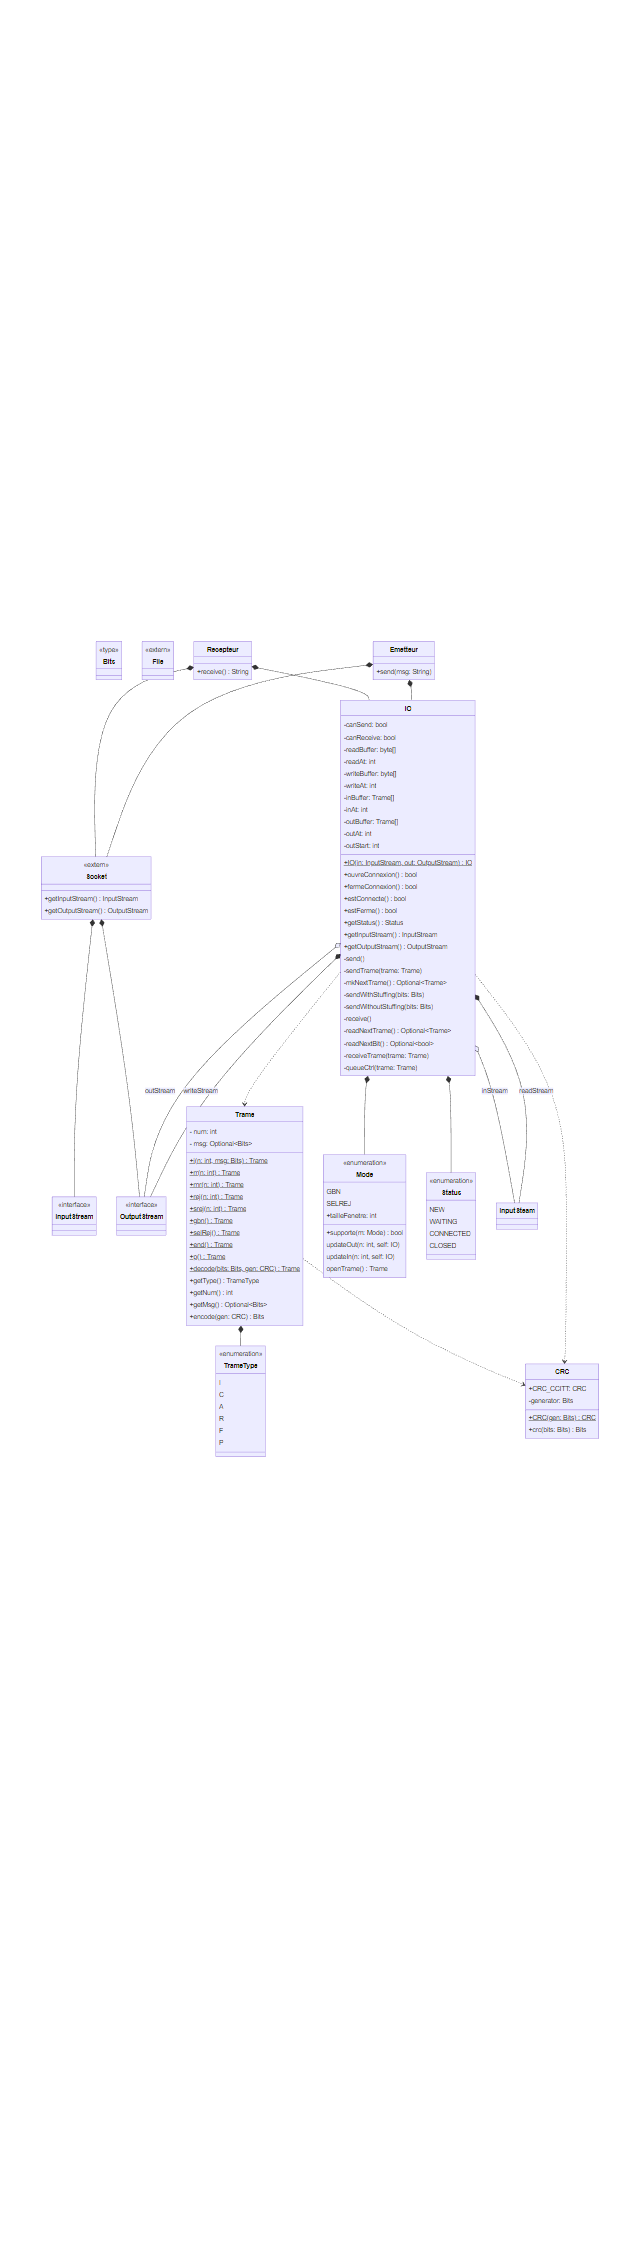
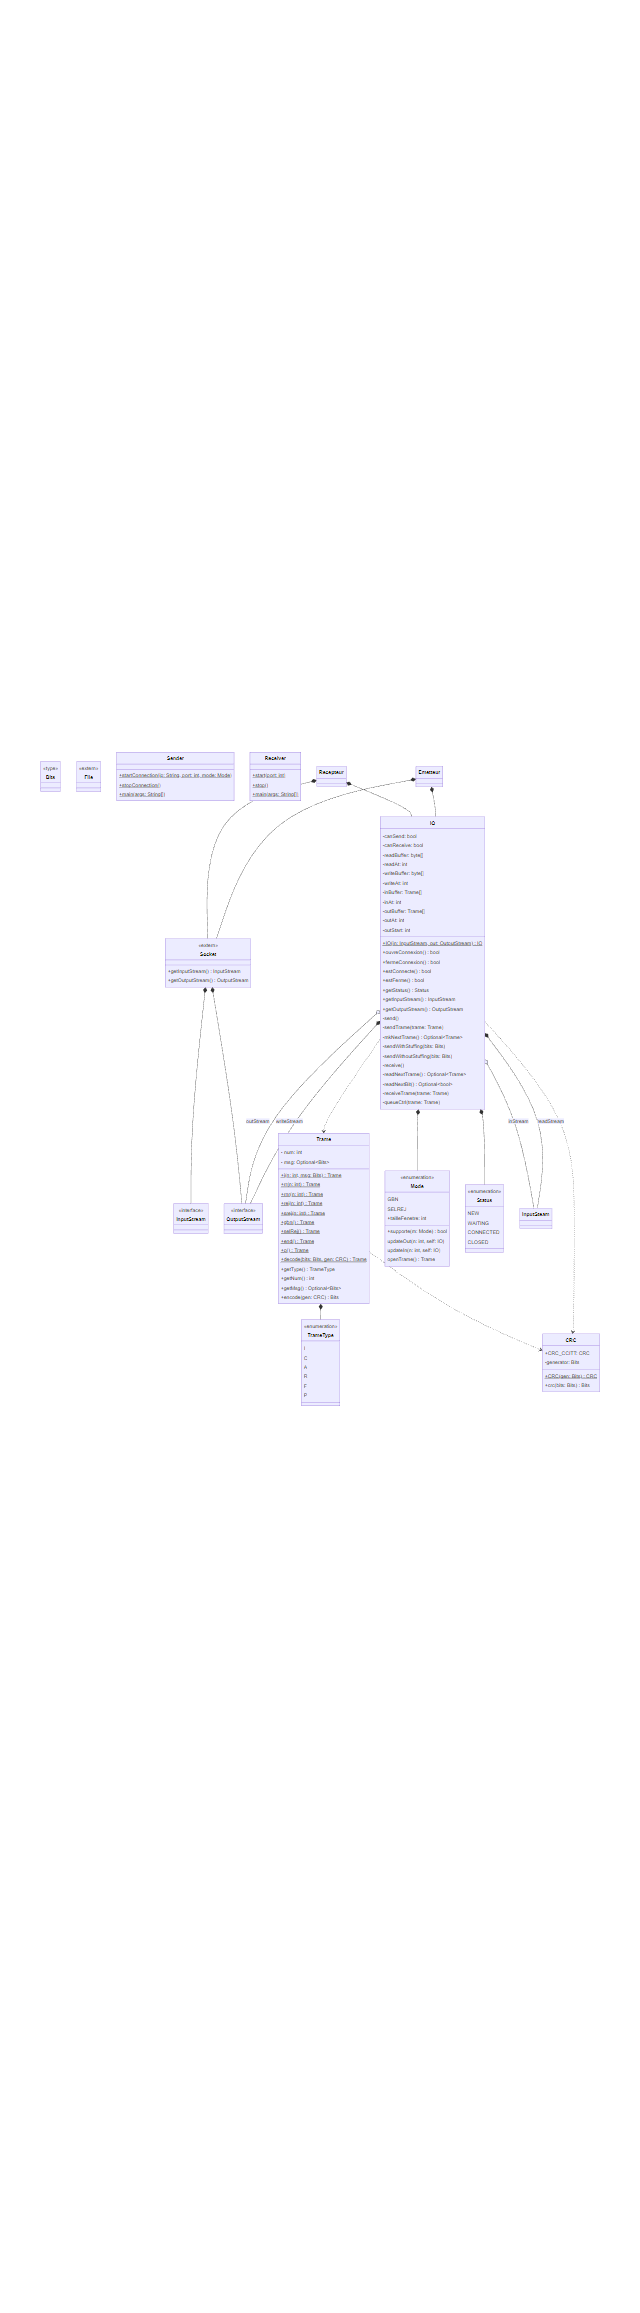
mis à jour diag de classe

diff --git a/diagClasse.md b/diagClasse.md
@@ -100,11 +100,15 @@ classDiagram
 	class File {
 		<<extern>>
 	}
-	class Emetteur {
-		+send(msg: String)
+	class Sender {
+		+startConnection(ip: String, port: int, mode: Mode)$
+		+stopConnection()$
+		+main(args: String[])$
 	}
-	class Recepteur {
-		+receive() String
+	class Receiver {
+		+start(port: int)$
+		+stop()$
+		+main(args: String[])$
 	}
 	
 	IO *-- Status
